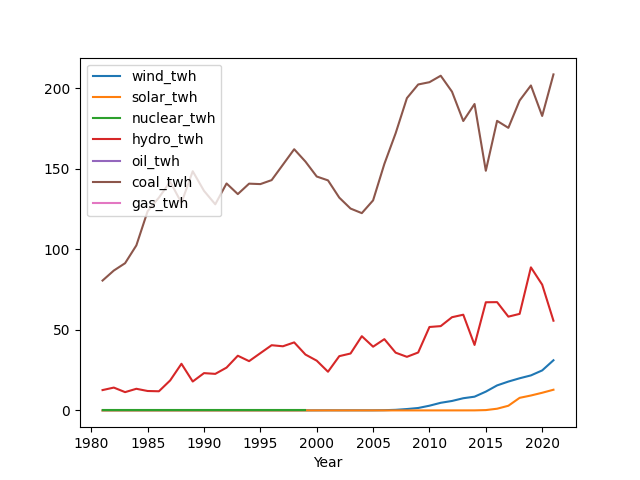
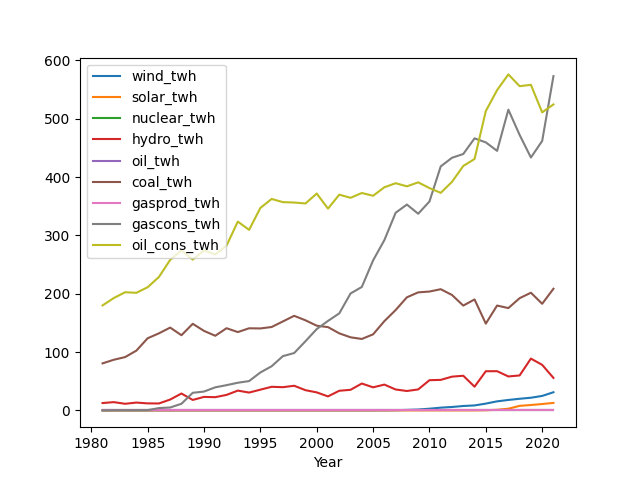
--

diff --git a/tr/2019/05/energstats.md b/tr/2019/05/energstats.md
@@ -8,12 +8,14 @@ df = pd.read_csv(fin)
 df = df[df.Country == 'Turkey']
 df = df.set_index('Year')
 df = df[df.index > 1980]
-df = df[['wind_twh','solar_twh','oilprod_kbd','nuclear_twh','hydro_twh','gasprod_ej','coalprod_ej']]
+df = df[['wind_twh','solar_twh','oilprod_kbd','nuclear_twh','hydro_twh','gasprod_ej','coalprod_ej','gascons_ej','oilcons_ej']]
 df['oil_twh'] = df.oilprod_kbd * 365 * 1700 * 1000 / 1e9
 df['coal_twh'] = df.coalprod_ej * 277.778 
-df['gas_twh'] = df.gasprod_ej * 277.778
+df['gasprod_twh'] = df.gasprod_ej * 277.778
+df['gascons_twh'] = df.gascons_ej * 277.778
+df['oil_cons_twh'] = df.oilcons_ej * 277.778
 cols = [x for x in df.columns if '_twh' in x]
-df = df[cols]
+df = df[cols].fillna(0)
 df[cols].plot()
 plt.savefig('energy-sources.png')
 print (df[cols].tail(3))
@@ -22,16 +24,18 @@ print (df[cols].tail(3))
 ```text
        wind_twh  solar_twh  nuclear_twh  hydro_twh  oil_twh    coal_twh  \
 Year                                                                      
-2019  21.730700   9.249800          NaN  88.822800      NaN  201.773096   
-2020  24.828200  10.950200          NaN  78.094300      NaN  182.830358   
-2021  31.137427  12.833868          NaN  55.695232      NaN  208.643868   
+2019  21.730700   9.249800          0.0  88.822800      0.0  201.773096   
+2020  24.828200  10.950200          0.0  78.094300      0.0  182.830358   
+2021  31.137427  12.833868          0.0  55.695232      0.0  208.643868   
 
-      gas_twh  
-Year           
-2019      NaN  
-2020      NaN  
-2021      NaN  
+      gasprod_twh  gascons_twh  oil_cons_twh  
+Year                                          
+2019          0.0   433.613797    558.265075  
+2020          0.0   462.099445    511.008829  
+2021          0.0   573.235049    524.657636  
 ```
+
+
 
 ![](energy-sources.png)
 
@@ -46,11 +50,16 @@ df2
 
 ```text
 Out[1]: 
-           Year
-wind_twh   2021    10.099376
-solar_twh  2021     4.162645
-hydro_twh  2021    18.064662
-coal_twh   2021    67.673316
+              Year
+wind_twh      2021     2.214291
+solar_twh     2021     0.912661
+nuclear_twh   2021     0.000000
+hydro_twh     2021     3.960682
+oil_twh       2021     0.000000
+coal_twh      2021    14.837392
+gasprod_twh   2021     0.000000
+gascons_twh   2021    40.764741
+oil_cons_twh  2021    37.310232
 dtype: float64
 ```
 
